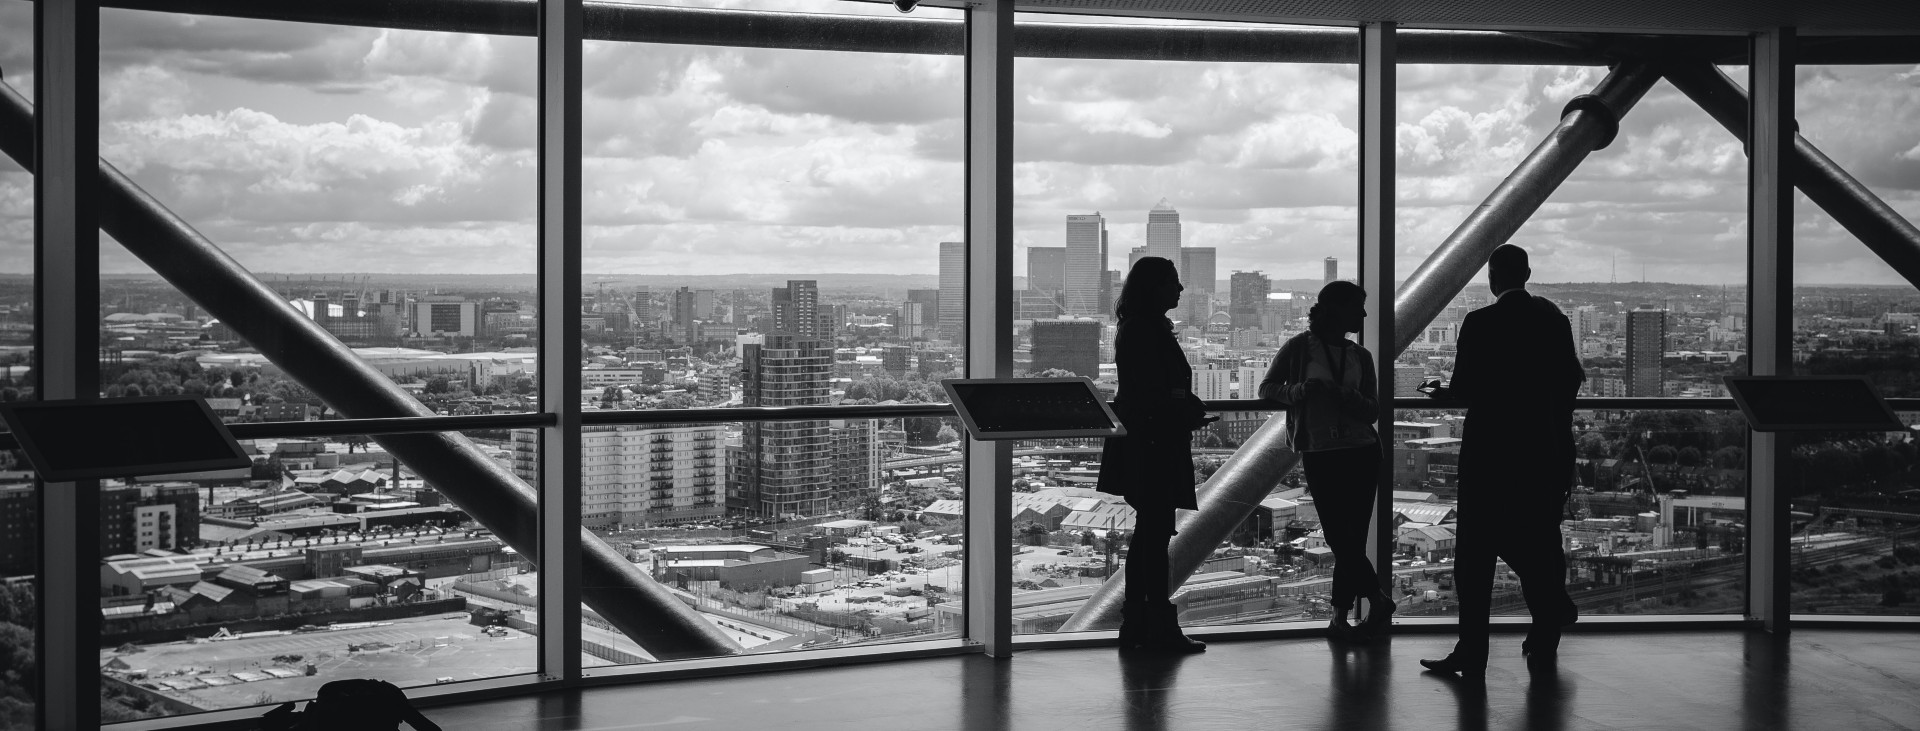
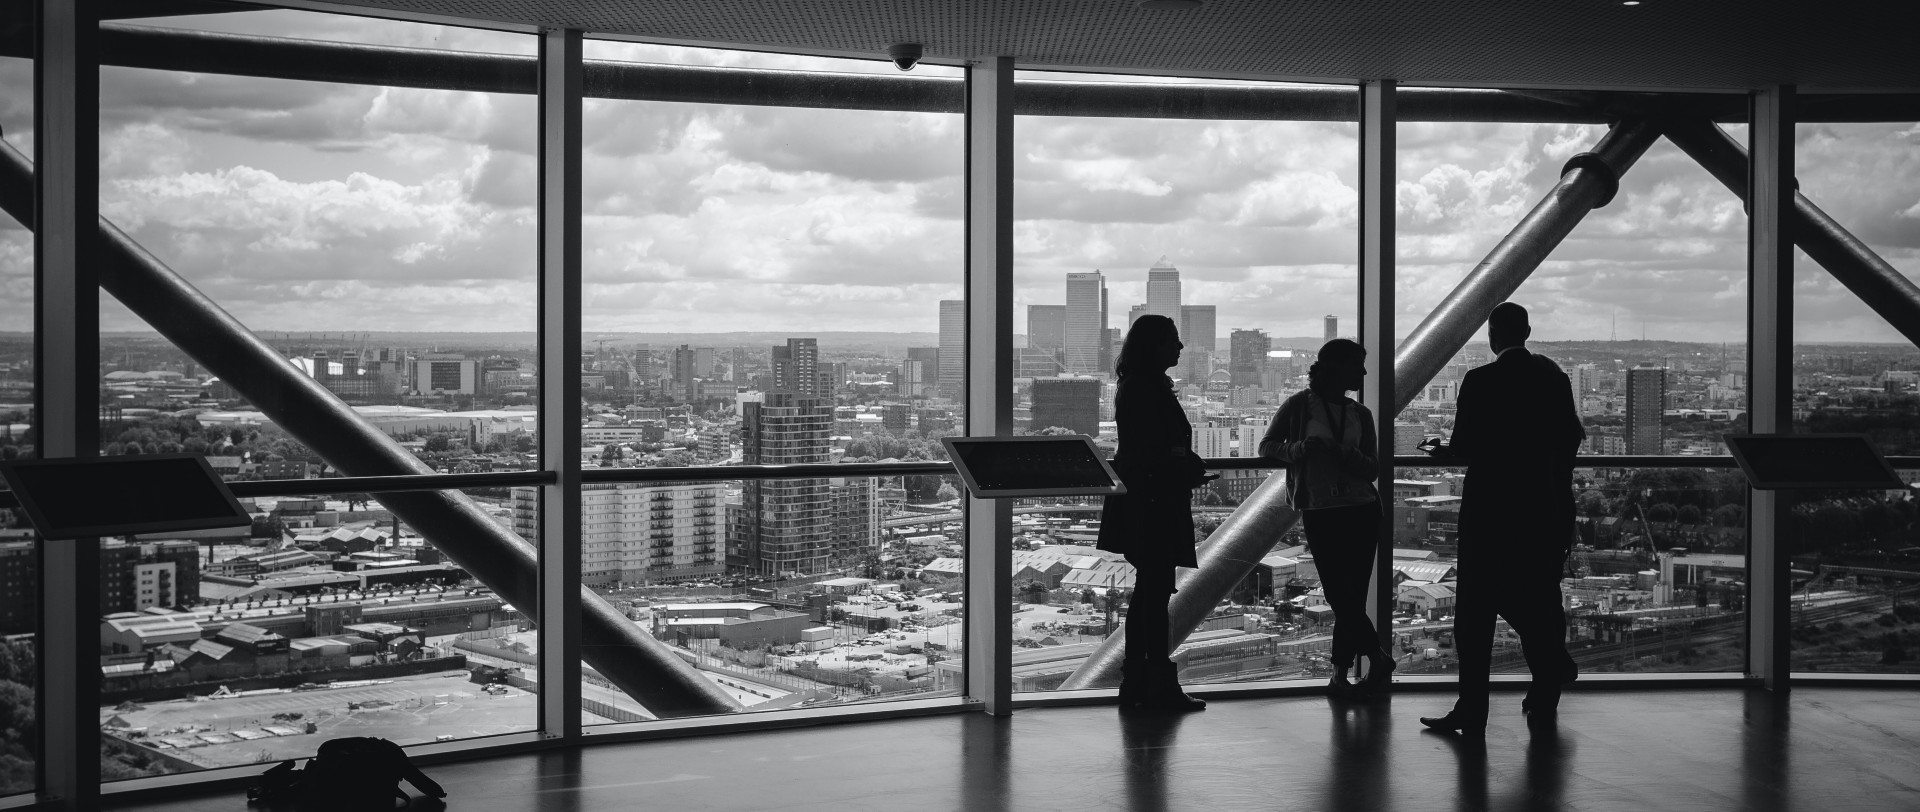
finished header

diff --git a/Permastaff/css/index.css b/Permastaff/css/index.css
@@ -15,15 +15,17 @@ body {
 }
 main {
     background-color: white;
-    margin-top: -5px;
-    text-align: center;
+    margin-top: -50px;
+    padding: 1em;
 }
 .purpose {
     padding: 1em;
 }
 
 header {
-    background-color: #EFEFEF;
+    display: grid;
+    grid-template-rows: auto;
+    background-color: white;
 }
 .logo {
     display: block;
@@ -50,6 +52,35 @@ header {
     justify-content: space-between;
     padding: 1em;
     align-items: center;
+    grid-row: 1/2;
+    z-index: 2;
+    grid-column: 1;
+    background-color: #EFEFEF;
+    opacity: .9;
+}
+.banner {
+    width: 100%;
+    grid-row: 1/5;
+    z-index: 1;
+    grid-column: 1;
+}
+.bannerButton {
+    width: 100px;
+    height: 40px;
+    position: relative;
+    bottom: 160%;
+    left: 10%;
+    z-index: 2;
+    background-color: rgba(151, 150, 150, 0.7);
+    color: white;
+    border: 3px solid white;
+    font-size: 12px;
+    transition: all 0.3s ease 0s;
+}
+
+.bannerButton:hover {
+    background-color: white;
+    color: black;
 }
 
 .ham {
@@ -156,9 +187,12 @@ footer {
     padding: 1em;
 }
 
-.banner {
-    width: 100%;
-    /* height: 600px; */
+.intro {
+    width: 1200px;
+;
+}
+.welcome {
+    text-align: center;
 }
 /* HUMAN RESOURCES */
 
@@ -195,6 +229,7 @@ footer {
     .links li{
         display: inline-block;
         padding: 10px 20px;
+        transition: all 0.3s ease 0s;
     }
     .ham {
         display: none;
@@ -206,6 +241,17 @@ footer {
         position: relative;
         left: 35%;
     }
-    
+    .bannerButton {
+        width: 150px;
+        height: 50px;
+        position: relative;
+        bottom: 180%;
+        left: 10%;
+        z-index: 2;
+        color: white;
+        border: 3px solid white;
+        font-size: 20px;
+        transition: all 0.3s ease 0s;
+    }
 
 }

diff --git a/Permastaff/index.html b/Permastaff/index.html
@@ -30,9 +30,16 @@
           ><button class="login">SIGN IN</button></a
         >
       </div>
+      <button class="bannerButton">Contact Us</button>
+      <img class="banner" src="images/possible_banner.jpg" alt="cityscape">
+      
     </header>
     <main>
-        <img class="banner" src="images/possible_banner.jpg" alt="cityscape">
+        <div class="welcome">
+        <h1>Welcome to Permastaff</h1>
+        <p class="intro">Interested in outsourcing your human resource management to a Professional Employer Organization (PEO)? Permastaff is the oldest PEO in the Phoenix metropolitan area,
+            boasting 20 years of service to our clients.</p>
+        </div>
     </main>
     <footer>
       <div class="footerTop">
